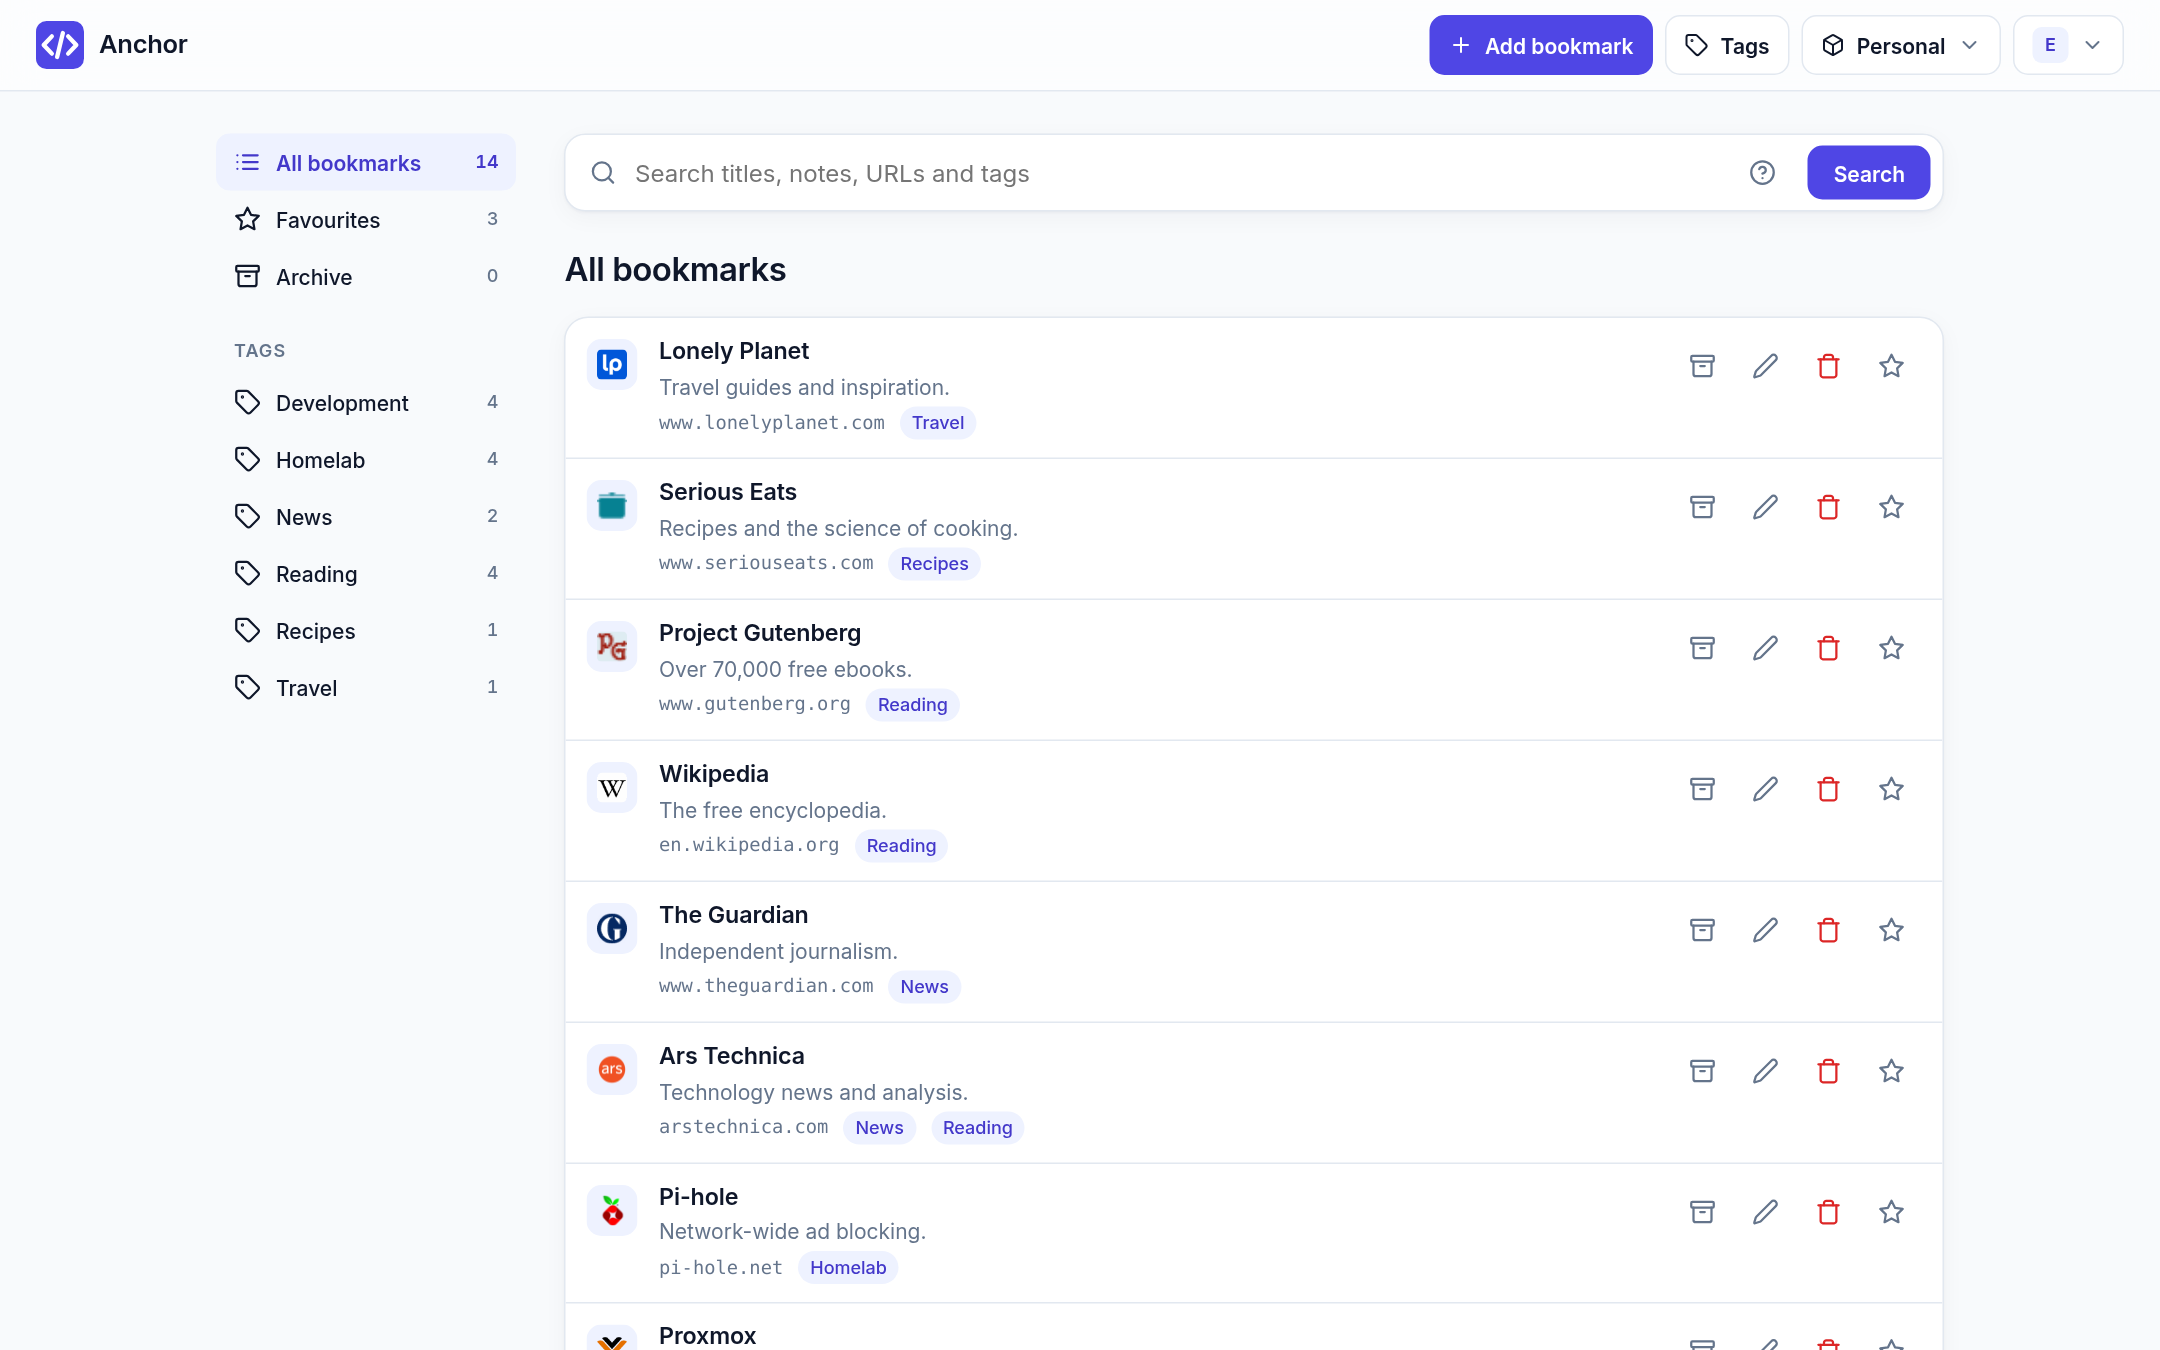
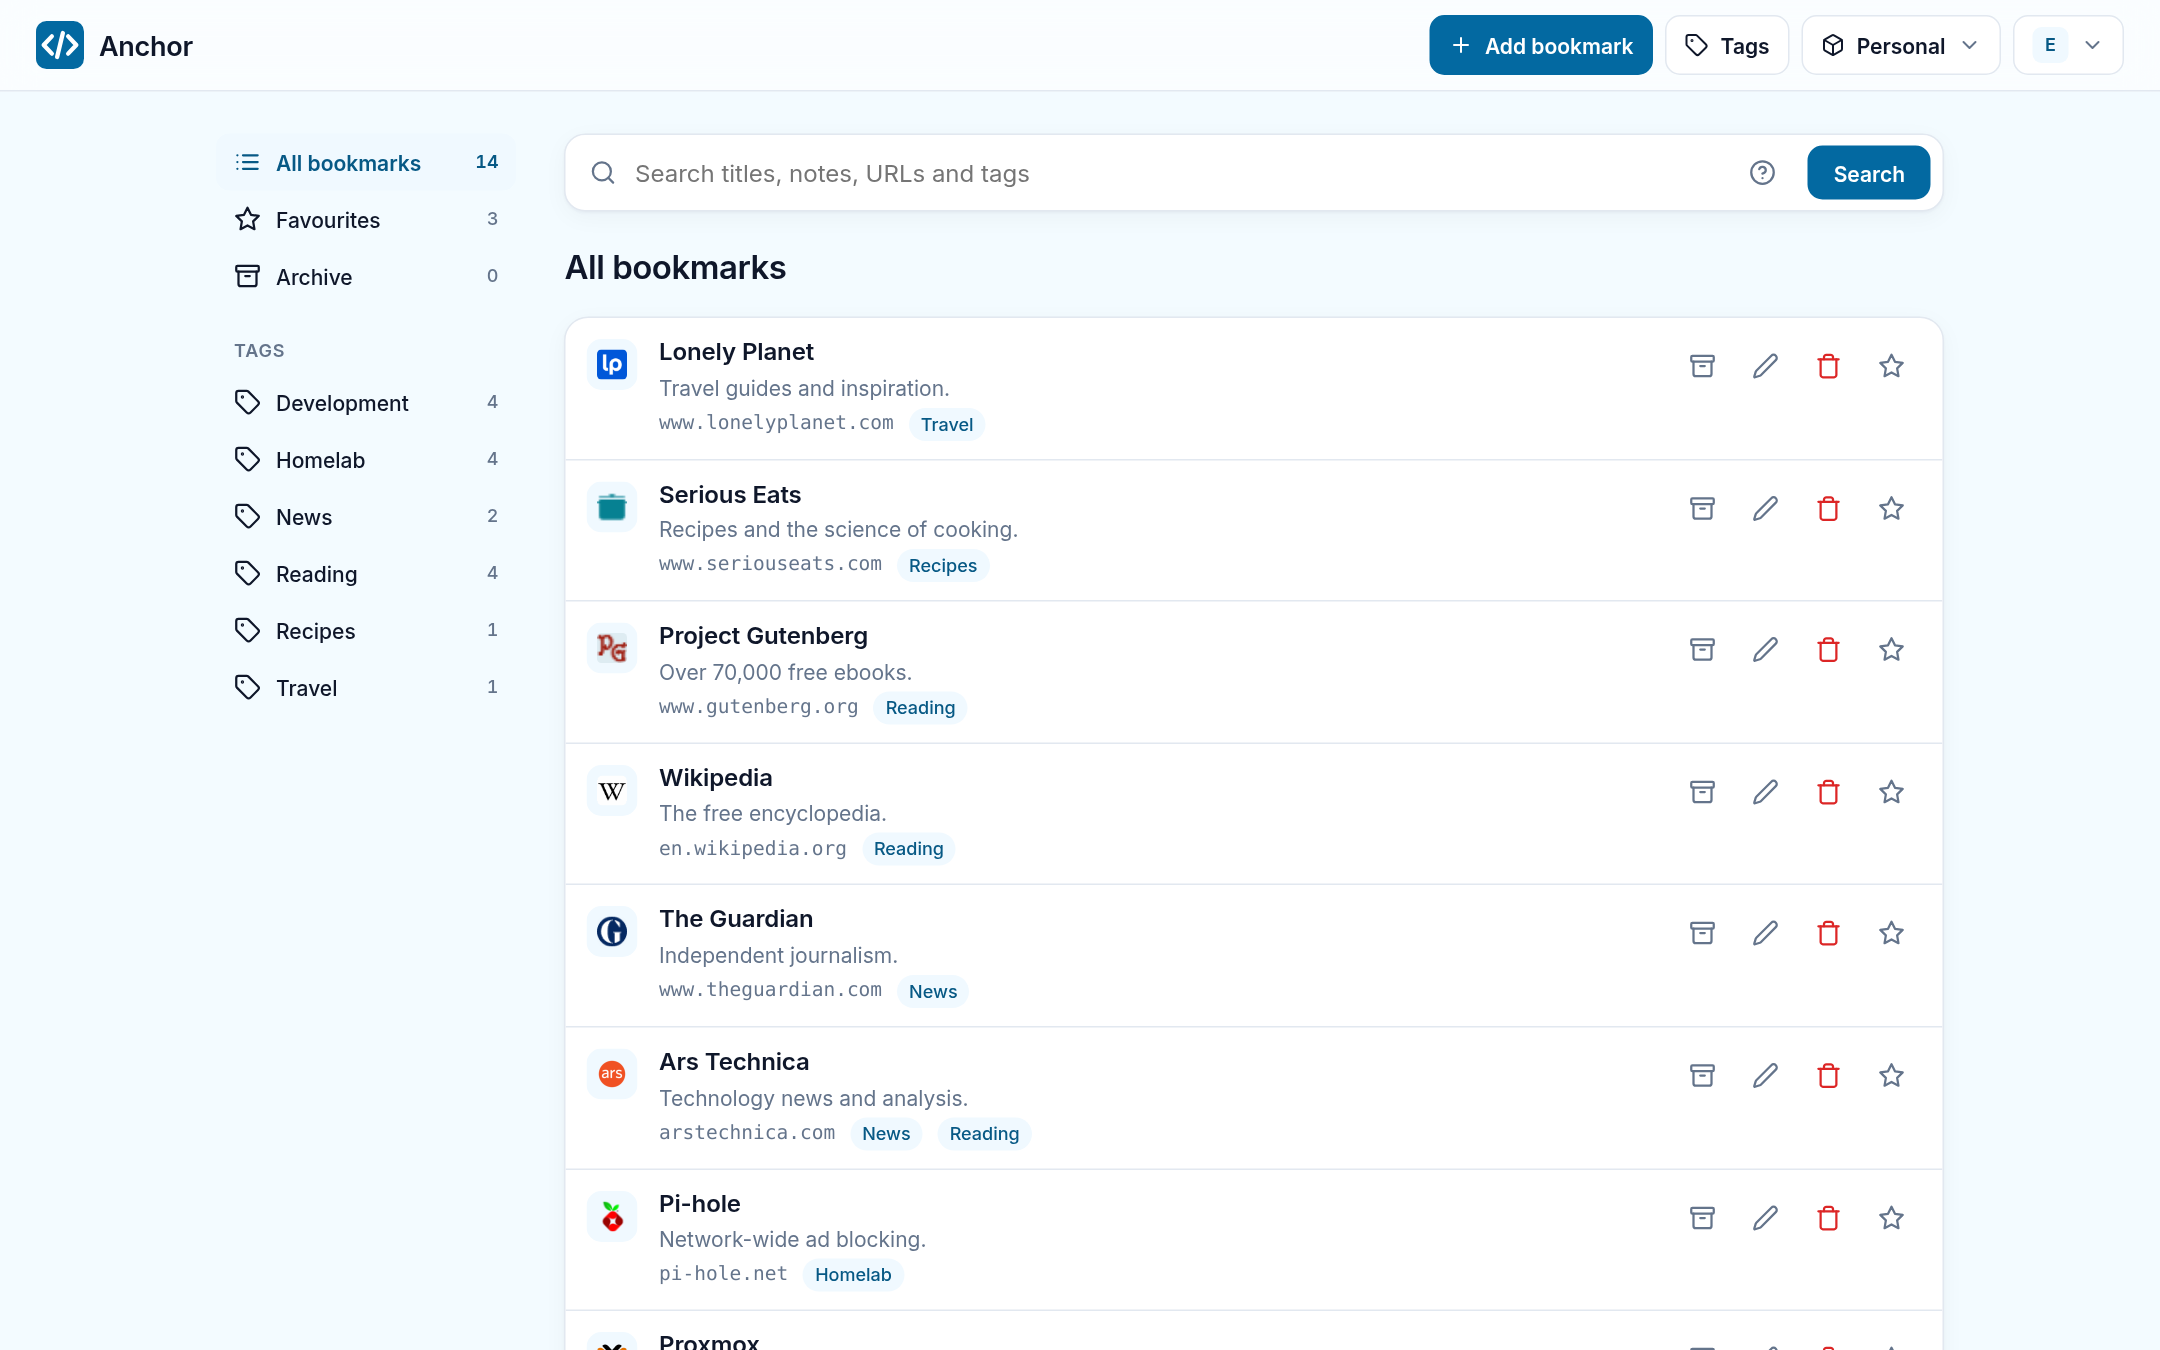
Make ocean Anchor's default colour
Ocean is now the first accent, so new users and anyone who never picked
one get it; style.css's :root holds its tokens and indigo became a
data-accent block like the others. The README icon and the screenshots
follow (the dark one stays emerald, to show the choice).

diff --git a/internal/web/static/style.css b/internal/web/static/style.css
@@ -40,7 +40,7 @@
 :root {
   /* Slate neutrals */
   /* The page background: the neutral with a hint of the accent. */
-  --bg: light-dark(#f5f9ff, #0a0b1d);
+  --bg: light-dark(#f3fbff, #010f1a);
   --surface: light-dark(#ffffff, #14161c);
   --raised: light-dark(#f1f5f9, #1b1e27);
   --text: light-dark(#0f172a, #e7e9ee);
@@ -55,12 +55,12 @@
   --shadow-1: light-dark(rgb(15 23 42 / 0.04), rgb(0 0 0 / 0.4));
   --shadow-2: light-dark(rgb(15 23 42 / 0.04), transparent);
   --shadow: 0 1px 2px var(--shadow-1), 0 4px 16px var(--shadow-2);
-  /* Indigo, the default accent */
-  --accent: light-dark(#4f46e5, #8b8cf8);
-  --accent-hover: light-dark(#4338ca, #a5a6fa);
+  /* Ocean, the default accent */
+  --accent: light-dark(#0369a1, #38bdf8);
+  --accent-hover: light-dark(#075985, #7dd3fc);
   --on-accent: light-dark(#ffffff, #0c0d11);
-  --soft: light-dark(#eef2ff, #23244a);
-  --soft-text: light-dark(#4338ca, #c7c8ff);
+  --soft: light-dark(#f0f9ff, #0c2a3d);
+  --soft-text: light-dark(#075985, #bae6fd);
   /* The accent as a text colour on the page; only yellow needs another. */
   --accent-text: var(--accent);
   --accent-text-hover: var(--accent-hover);
@@ -101,12 +101,12 @@
   --soft: light-dark(#ecfdf5, #0f2e25);
   --soft-text: light-dark(#065f46, #a7f3d0);
 }
-:root[data-accent="ocean"] {
-  --bg: light-dark(#f3fbff, #010f1a);
-  --accent: light-dark(#0369a1, #38bdf8);
-  --accent-hover: light-dark(#075985, #7dd3fc);
-  --soft: light-dark(#f0f9ff, #0c2a3d);
-  --soft-text: light-dark(#075985, #bae6fd);
+:root[data-accent="indigo"] {
+  --bg: light-dark(#f5f9ff, #0a0b1d);
+  --accent: light-dark(#4f46e5, #8b8cf8);
+  --accent-hover: light-dark(#4338ca, #a5a6fa);
+  --soft: light-dark(#eef2ff, #23244a);
+  --soft-text: light-dark(#4338ca, #c7c8ff);
 }
 :root[data-accent="forest"] {
   --bg: light-dark(#f5fbfb, #070f0e);

diff --git a/docs/screenshots/shoot.js b/docs/screenshots/shoot.js
@@ -105,7 +105,7 @@ async function appearance(page, accent, theme) {
   await sleep(180000);
 
   // 1. The list, light.
-  await appearance(page, "indigo", "light");
+  await appearance(page, "ocean", "light");
   await post(page, "/space", { space: "" });
   await page.goto(BASE + "/");
   await page.screenshot({ path: OUT + "/bookmarks.png" });
@@ -116,7 +116,7 @@ async function appearance(page, accent, theme) {
   await page.screenshot({ path: OUT + "/dark.png" });
 
   // 3. The space switcher, in the shared space.
-  await appearance(page, "indigo", "light");
+  await appearance(page, "ocean", "light");
   await post(page, "/space", { space: spaceID });
   await page.goto(BASE + "/");
   await page.click("details.space-menu > summary");

diff --git a/internal/web/web_test.go b/internal/web/web_test.go
@@ -378,7 +378,7 @@ func TestAppearancePreference(t *testing.T) {
 		t.Fatal("logged-out pages should use ocean and the other defaults")
 	}
 	c := e.login("alice")
-	if _, body, _ := c.get("/"); !strings.Contains(body, `data-accent="indigo" data-theme="system"`) {
+	if _, body, _ := c.get("/"); !strings.Contains(body, `data-accent="ocean" data-theme="system"`) {
 		t.Fatal("new users should get the defaults")
 	}
 	if code, _, loc := c.post("/settings/appearance", url.Values{"accent": {"terracotta"}, "theme": {"dark"}}); code != http.StatusSeeOther || loc != "/settings?done=appearance" {
@@ -393,7 +393,7 @@ func TestAppearancePreference(t *testing.T) {
 	}
 	// Preferences are per user.
 	e.user("bob")
-	if _, body, _ := e.login("bob").get("/"); !strings.Contains(body, `data-accent="indigo"`) {
+	if _, body, _ := e.login("bob").get("/"); !strings.Contains(body, `data-accent="ocean"`) {
 		t.Fatal("alice's preference leaked to bob")
 	}
 }
@@ -627,8 +627,8 @@ func TestEveryAccentIsStyled(t *testing.T) {
 	}
 	// A saved accent that no longer exists falls back to the default.
 	e.db.W.Exec(`UPDATE users SET settings = '{"accent":"violet"}' WHERE username = 'alice'`)
-	if _, body, _ := c.get("/"); !strings.Contains(body, `data-accent="indigo"`) {
-		t.Fatal("removed accent didn't fall back to indigo")
+	if _, body, _ := c.get("/"); !strings.Contains(body, `data-accent="ocean"`) {
+		t.Fatal("removed accent didn't fall back to ocean")
 	}
 }
 

diff --git a/internal/web/pwa_test.go b/internal/web/pwa_test.go
@@ -135,10 +135,10 @@ func TestHeadTags(t *testing.T) {
 	c := e.admin()
 	_, body, _ := c.get("/")
 	for _, want := range []string{
-		`<link rel="manifest" href="/app.webmanifest?accent=indigo&amp;lang=en&amp;theme=system">`,
-		`<link rel="apple-touch-icon" href="/static/icons/apple-touch-indigo.png?v=`,
-		`<meta name="theme-color" content="#f5f9ff" media="(prefers-color-scheme: light)">`,
-		`<meta name="theme-color" content="#0a0b1d" media="(prefers-color-scheme: dark)">`,
+		`<link rel="manifest" href="/app.webmanifest?accent=ocean&amp;lang=en&amp;theme=system">`,
+		`<link rel="apple-touch-icon" href="/static/icons/apple-touch-ocean.png?v=`,
+		`<meta name="theme-color" content="#f3fbff" media="(prefers-color-scheme: light)">`,
+		`<meta name="theme-color" content="#010f1a" media="(prefers-color-scheme: dark)">`,
 		`viewport-fit=cover`,
 	} {
 		if !strings.Contains(body, want) {

diff --git a/internal/store/store_test.go b/internal/store/store_test.go
@@ -271,7 +271,7 @@ func TestSettings(t *testing.T) {
 	ctx := context.Background()
 	s := newTestStore(t)
 	u := newUser(t, s, "alice")
-	if u.Settings != (Settings{Accent: "indigo", Theme: "system", Font: "inter", Language: "auto", Sidebar: "left", Sort: "newest", Descriptions: "show"}) {
+	if u.Settings != (Settings{Accent: "ocean", Theme: "system", Font: "inter", Language: "auto", Sidebar: "left", Sort: "newest", Descriptions: "show"}) {
 		t.Fatalf("defaults = %+v", u.Settings)
 	}
 	if err := s.SaveSettings(ctx, u.ID, Settings{Accent: "terracotta", Theme: "dark", Font: "roboto", Language: "nl", Sidebar: "right", Sort: "title", Descriptions: "hide"}); err != nil {

diff --git a/internal/store/users.go b/internal/store/users.go
@@ -49,7 +49,7 @@ type Settings struct {
 // Accents, Themes, Fonts, Languages, Sidebars, Sorts and DescriptionModes list the allowed
 // values, the default first.
 var (
-	Accents          = []string{"indigo", "terracotta", "yellow", "emerald", "forest", "ocean", "rose", "graphite"}
+	Accents          = []string{"ocean", "indigo", "terracotta", "yellow", "emerald", "forest", "rose", "graphite"}
 	Themes           = []string{"system", "light", "dark"}
 	Fonts            = []string{"inter", "system", "roboto", "open-sans"}
 	Languages        = languages()

diff --git a/internal/web/render.go b/internal/web/render.go
@@ -217,8 +217,7 @@ func (s *Server) render(w http.ResponseWriter, r *http.Request, status int, page
 	d["CSRF"] = csrfToken(r)
 	d["Path"] = r.URL.Path
 	d["Bare"] = u == nil && authPages[page]
-	prefs := store.Settings{}.Normalized()
-	prefs.Accent = "ocean" // signed-out pages, such as the login screen
+	prefs := store.Settings{}.Normalized() // signed-out pages, such as the login screen
 	if u != nil {
 		prefs = u.Settings
 	}
